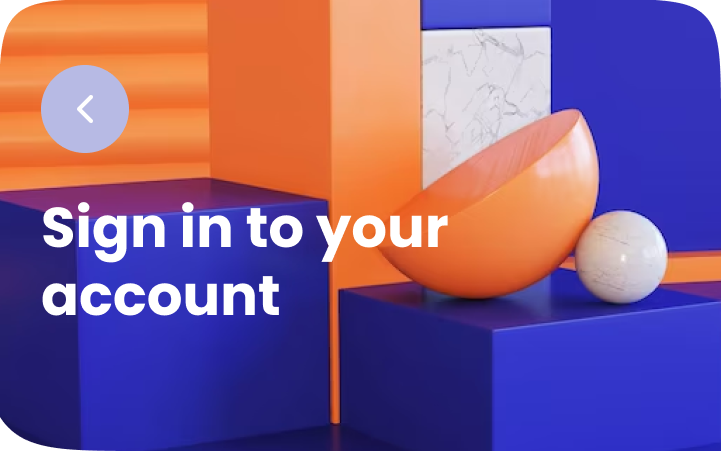
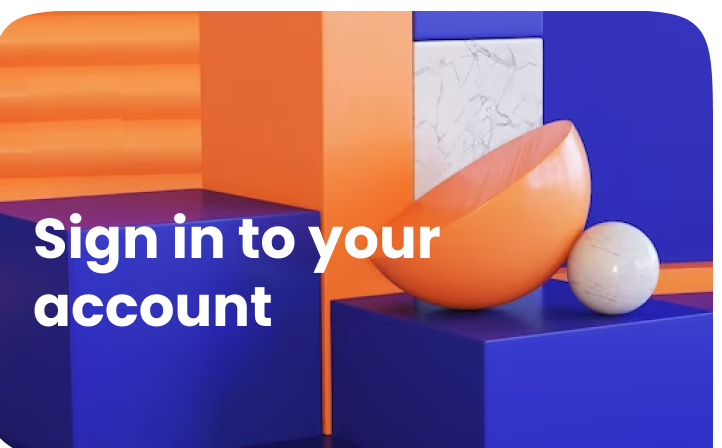
Add files via upload

Changed region(s): [[0.0, 0.0, 1.0, 1.0]]

diff --git a/src/style/Styles.jsx b/src/style/Styles.jsx
@@ -18,7 +18,9 @@ const SignUpStyle = StyleSheet.create({
   },
   backButton: {
     resizeMode: 'contain',
-    width: SIZE.xLarge * 1.8,
+    marginHorizontal: SIZE.xLarge,
+    marginVertical: SIZE.xLarge,
+    width: SIZE.xLarge * 2,
     height: SIZE.xLarge * 3,
   },
   image: {resizeMode: 'contain', width: '100%'},
@@ -44,6 +46,7 @@ const SignUpStyle = StyleSheet.create({
     borderWidth: 0.2,
     borderRadius: 4,
     paddingHorizontal: SIZE.xLarge * 2.2,
+    color: COLOR.black,
   },
 
   policyCheckContainer: {
@@ -88,8 +91,10 @@ const SignInStyle = StyleSheet.create({
     marginVertical: SIZE.xLarge * 5.3,
   },
   backButton: {
+    marginHorizontal: SIZE.xLarge,
+    marginVertical: SIZE.xLarge,
     resizeMode: 'contain',
-    width: SIZE.xLarge * 1.8,
+    width: SIZE.xLarge * 2,
     height: SIZE.xLarge * 3,
   },
   image: {resizeMode: 'contain', width: '100%'},
@@ -117,6 +122,7 @@ const SignInStyle = StyleSheet.create({
     width: '100%',
     marginHorizontal: SIZE.xLarge * -1.6,
     paddingHorizontal: SIZE.xLarge * 1.6,
+    color: COLOR.black,
   },
 
   forgotPassTextContainer: {
@@ -166,6 +172,8 @@ const SignInStyle = StyleSheet.create({
   },
   IconBackground: {
     justifyContent: 'center',
+    alignItems: 'center',
+    alignContent:'center',
     borderWidth: 0.3,
     borderColor: COLOR.gray,
     borderRadius: SIZE.small - 5,
@@ -179,8 +187,8 @@ const SignInStyle = StyleSheet.create({
     borderWidth: 0.3,
     borderColor: COLOR.gray,
     borderRadius: SIZE.small - 5,
-    height: '26%',
-    width: '14%',
+    height: '25%',
+    width: '13%',
     marginHorizontal: SIZE.small,
     paddingHorizontal: SIZE.small,
   },
@@ -211,7 +219,7 @@ const WeatherStyle = StyleSheet.create({
   image: {width: '100%', height: '40%', resizeMode: 'contain'},
   WeatherDataContainer: {
     flex: 1,
-    marginVertical: SIZE.xLarge * -10,
+    marginVertical: SIZE.xLarge * -11,
     marginHorizontal: SIZE.xLarge,
   },
 

diff --git a/src/components/Goback.jsx b/src/components/Goback.jsx
@@ -40,13 +40,15 @@ const Goback = ({screen}) => {
             style={{
               position: 'absolute',
               zIndex: 1,
+              marginHorizontal: SIZE.xLarge,
+              marginVertical: SIZE.small,
             }}
             onPress={goBack}>
             <Image
               source={WeatherBack}
               style={{
-                width: SIZE.xLarge * 2,
-                height: SIZE.xLarge * 2,
+                width: SIZE.xLarge * 2.2,
+                height: SIZE.xLarge * 2.2,
                 resizeMode: 'cover',
                 marginVertical: SIZE.xLarge * 1.3,
                 marginHorizontal: SIZE.large,
